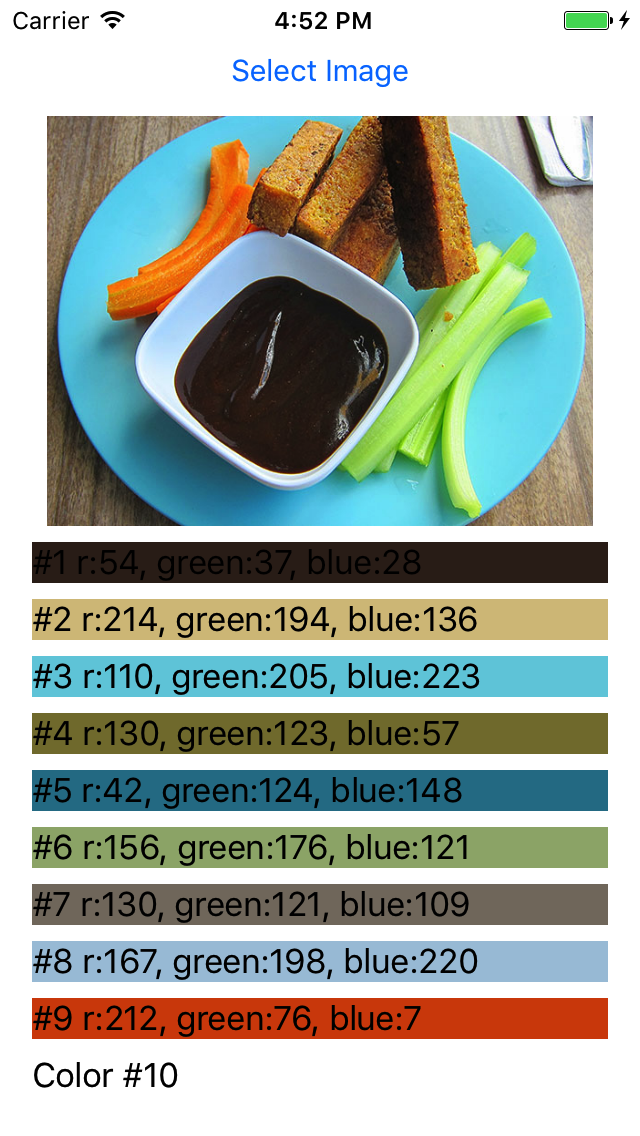
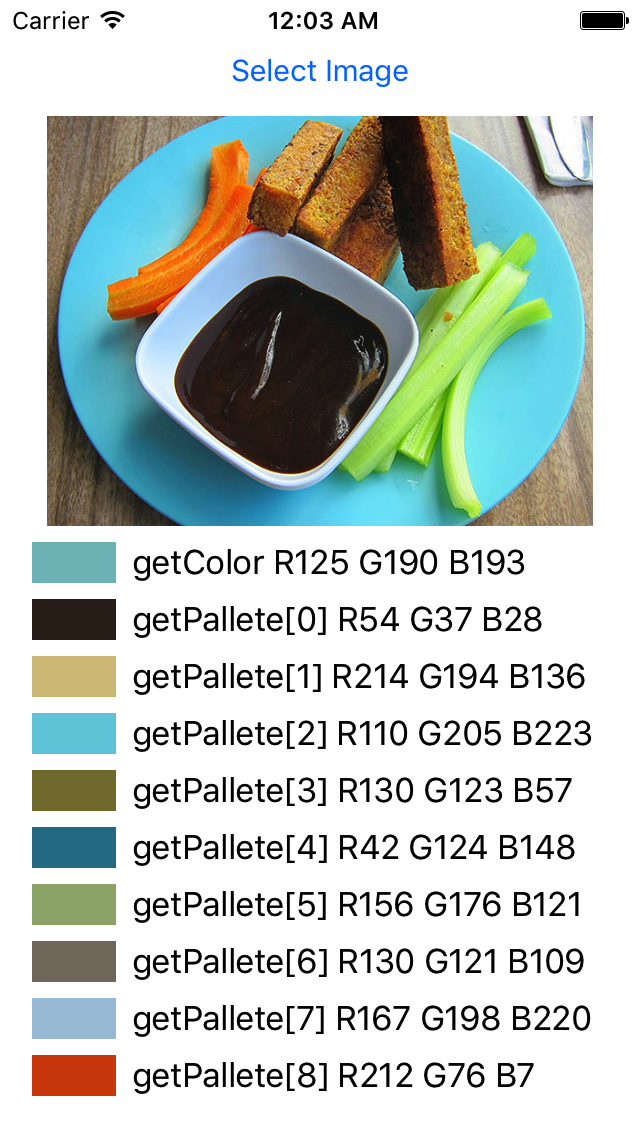
update Example
- fix display of green value
- make texts more readable
- use getColorFromImage

Changed region(s): [[0.0312, 0.4621, 0.9688, 0.9859], [0.4062, 0.0, 0.5938, 0.0308], [0.875, 0.0, 1.0, 0.0308]]

diff --git a/Example/ColorThiefSwift/ViewController.swift b/Example/ColorThiefSwift/ViewController.swift
@@ -17,7 +17,10 @@ class ViewController: UIViewController, UIImagePickerControllerDelegate, UINavig
 
     @IBOutlet weak var button: UIButton!
     @IBOutlet weak var imageView: UIImageView!
-    @IBOutlet var labels: [UILabel]!
+    @IBOutlet weak var colorLabel: UILabel!
+    @IBOutlet weak var colorView: UIView!
+    @IBOutlet var paletteLabels: [UILabel]!
+    @IBOutlet var paletteViews: [UIView]!
 
     override func viewDidLoad() {
         super.viewDidLoad()
@@ -42,18 +45,30 @@ class ViewController: UIViewController, UIImagePickerControllerDelegate, UINavig
         imageView.image = image
 
         dispatch_async(dispatch_get_global_queue(DISPATCH_QUEUE_PRIORITY_DEFAULT, 0)) {
-            let start = NSDate()
+
             guard let colors = ColorThief.getPaletteFromImage(image, colorCount: 10, quality: 1, ignoreWhite: true) else {
                 return
             }
+            let start = NSDate()
+            guard let dominantColor = ColorThief.getColorFromImage(image) else {
+                return
+            }
             let elapsed = -start.timeIntervalSinceNow
-            NSLog("\(elapsed * 1000.0)ms")
+            NSLog("time for getColorFromImage: \(Int(elapsed * 1000.0))ms")
             dispatch_async(dispatch_get_main_queue()) { [weak self] in
-                for i in 0 ..< min(10, colors.count) {
-                    let color = colors[i]
-                    self?.labels[i].backgroundColor = color.toUIColor()
-                    self?.labels[i].text = "#\(i + 1) r:\(color.r), green:\(color.b), blue:\(color.b)"
+                for i in 0 ..< 9 {
+                    if i < colors.count {
+                        let color = colors[i]
+                        self?.paletteViews[i].backgroundColor = color.toUIColor()
+                        self?.paletteLabels[i].text = "getPallete[\(i)] R\(color.r) G\(color.g) B\(color.b)"
+                    } else {
+                        self?.paletteViews[i].backgroundColor = UIColor.whiteColor()
+                        self?.paletteLabels[i].text = "-"
+                    }
                 }
+                self?.colorView.backgroundColor = dominantColor.toUIColor()
+                self?.colorLabel.text = "getColor R\(dominantColor.r) G\(dominantColor.g) B\(dominantColor.b)"
+
             }
         }
     }
